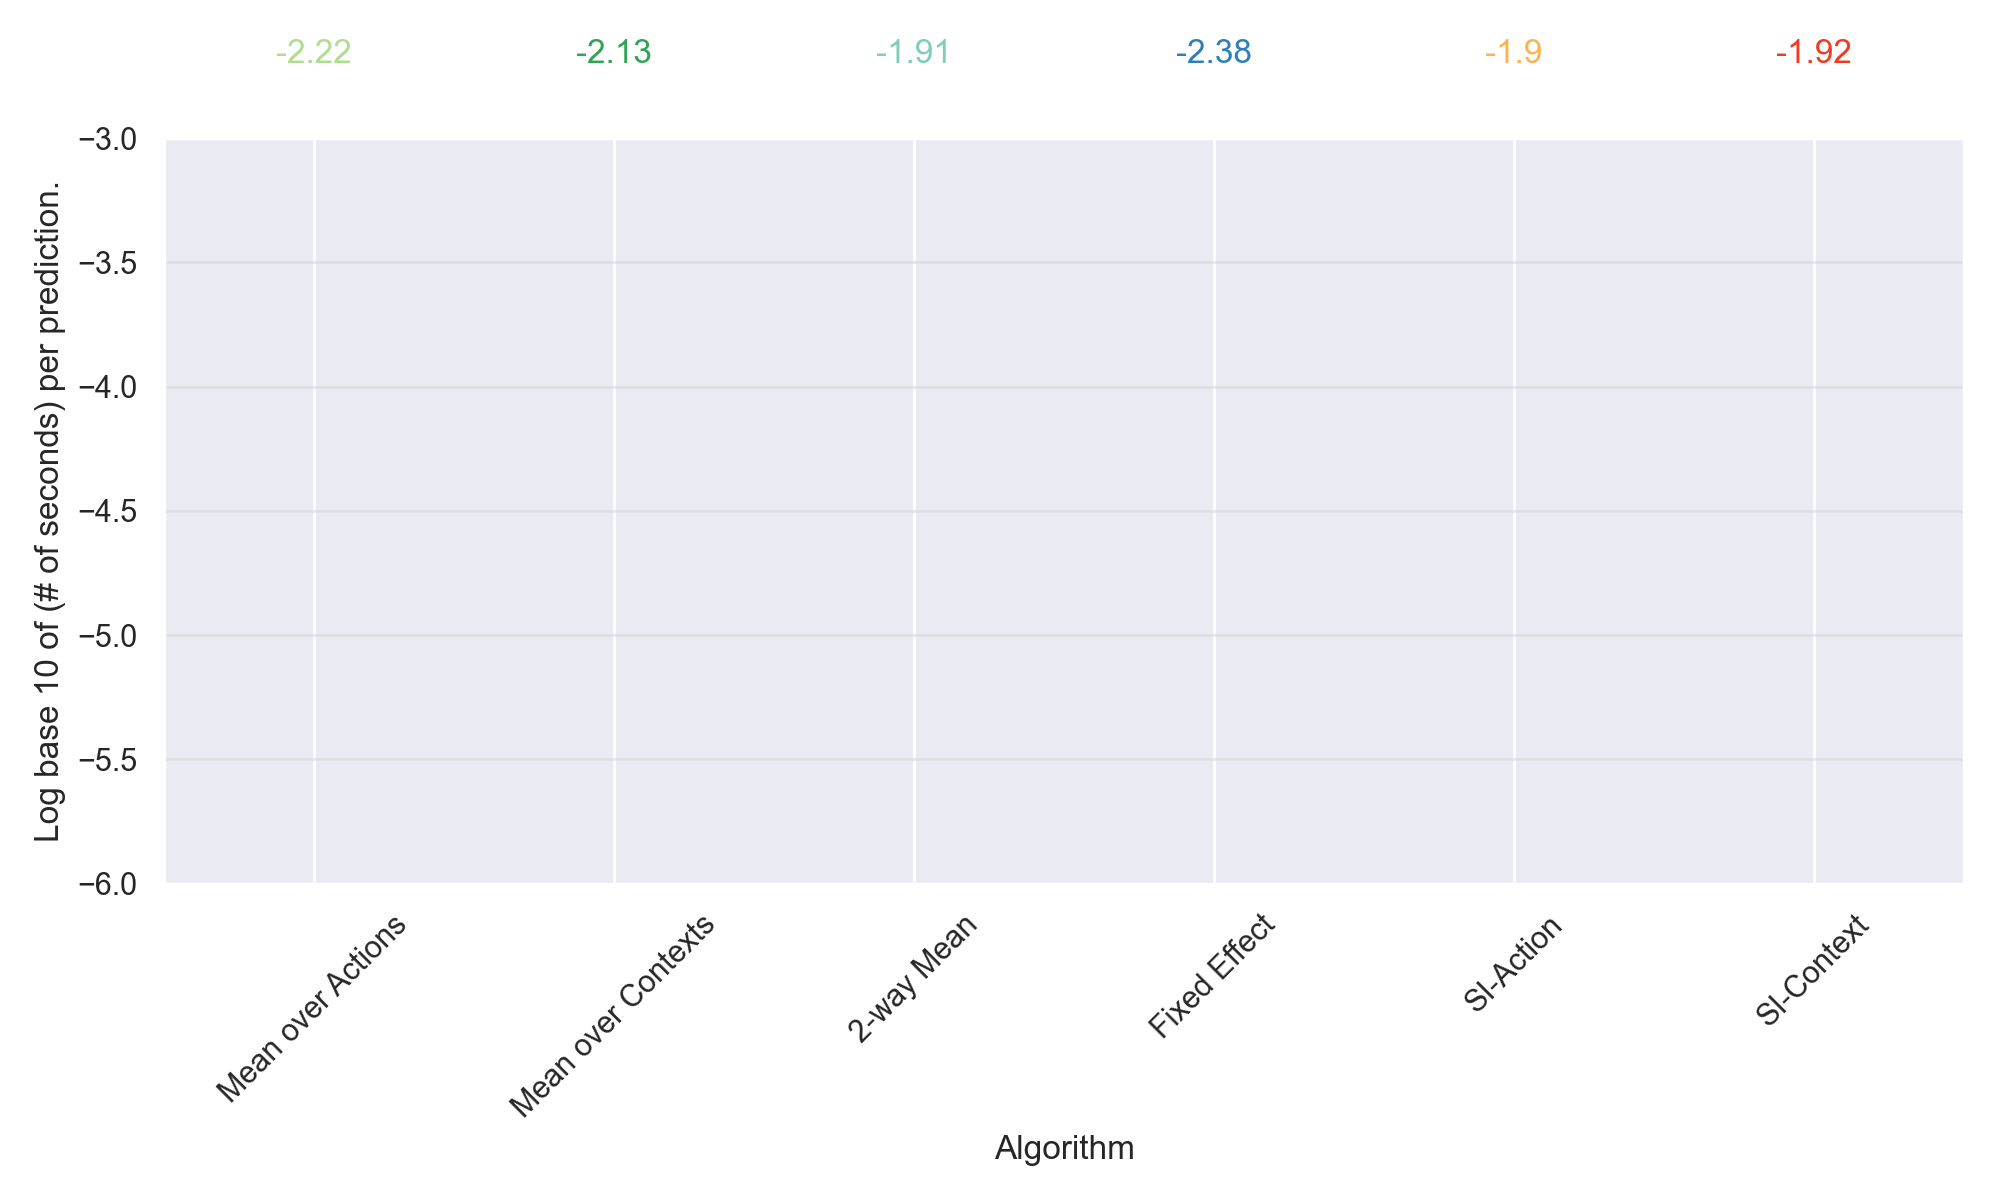
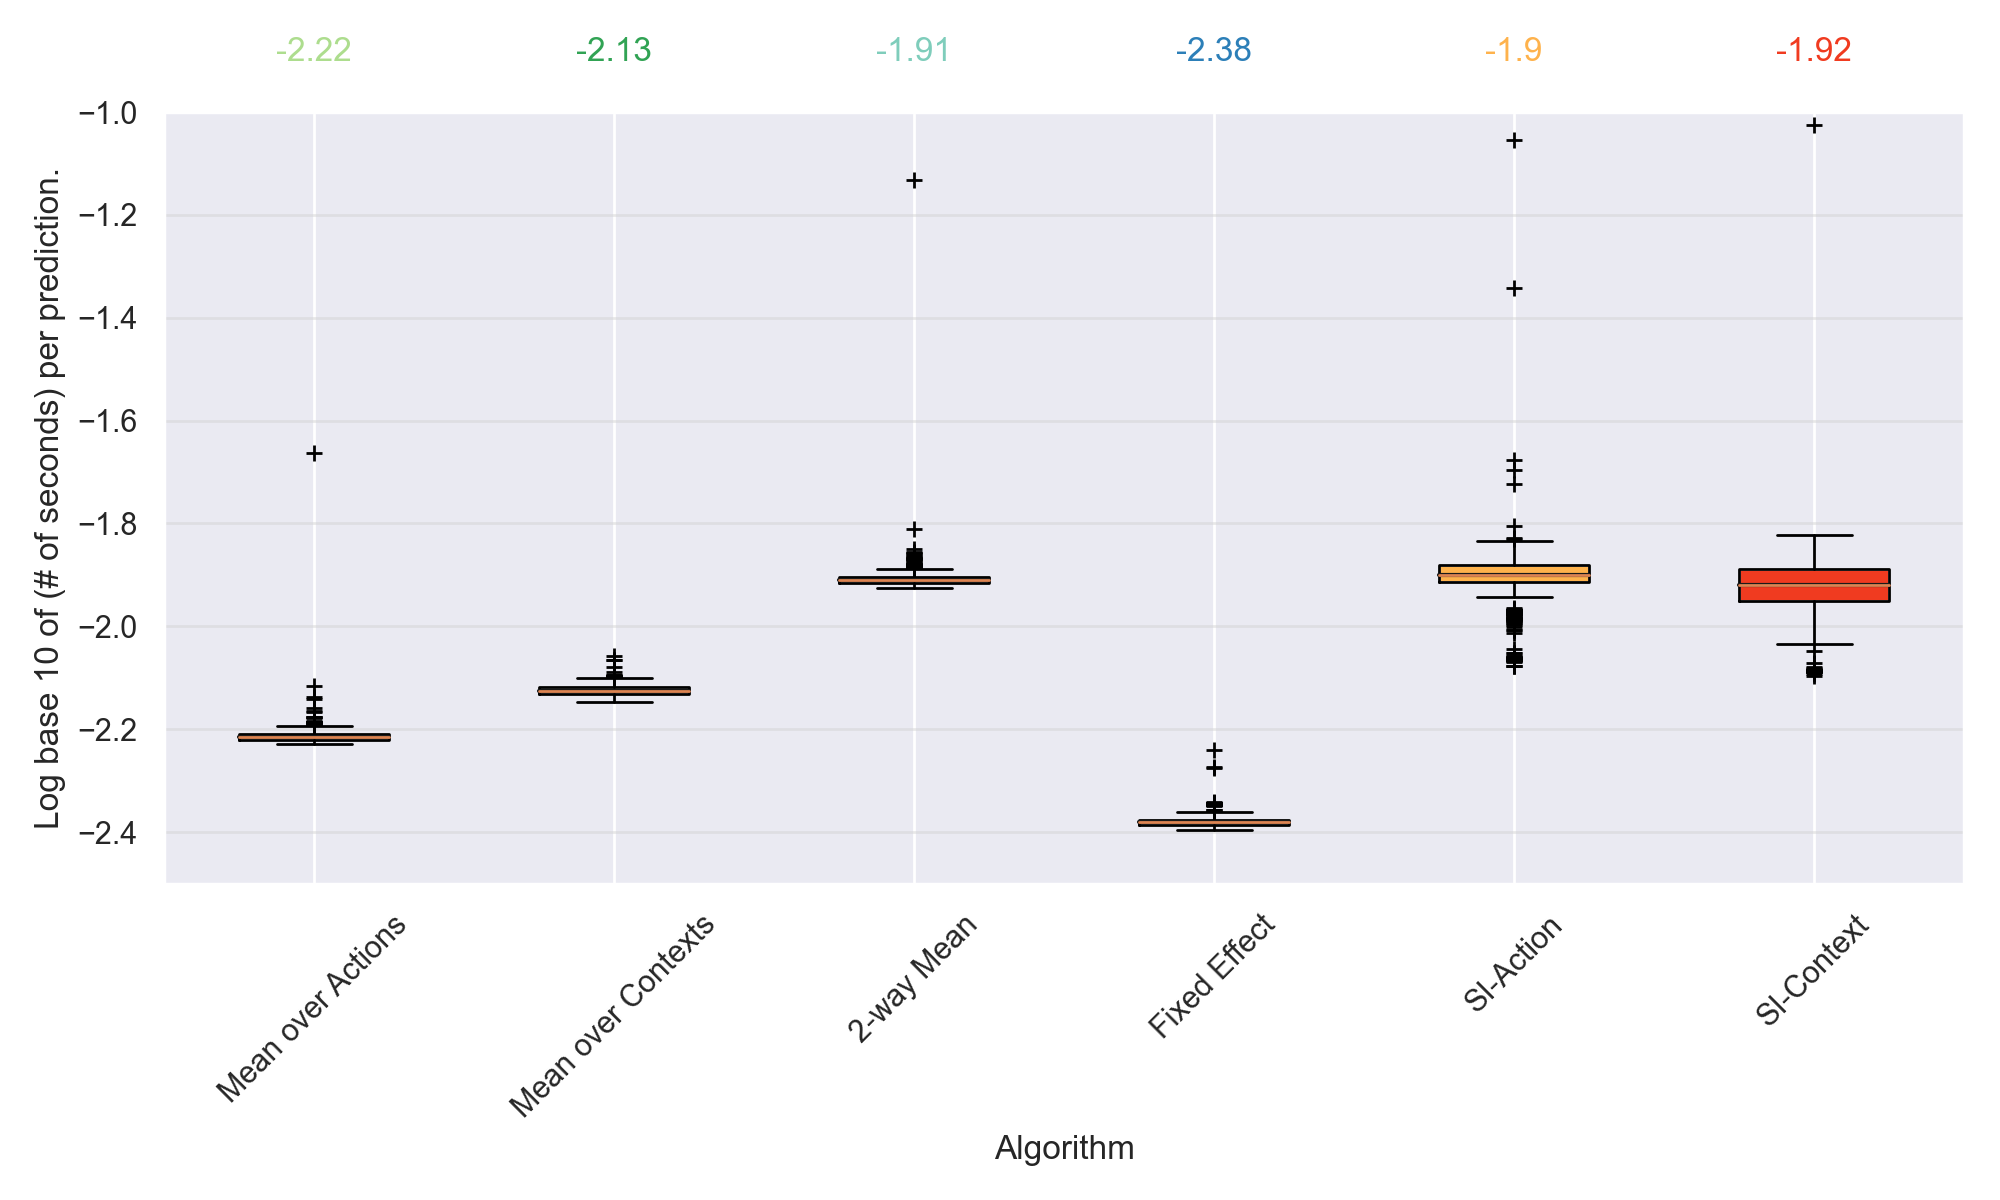
do 10,000

diff --git a/src/algorithms/synthetic_interventions2.py b/src/algorithms/synthetic_interventions2.py
@@ -112,7 +112,7 @@ class SyntheticInterventions:
             vals = block.values.reshape(-1, len(contexts)*df.shape[1]).T
         return vals
 
-    def predict(self, targets, progress=False, statistics=True):
+    def predict(self, targets, progress=False, statistics=False):
         targets = targets.reorder_levels([self.context_dim, self.regression_dim])
         iterator = enumerate(targets) if not progress else enumerate(tqdm(targets))
 
@@ -165,7 +165,7 @@ def predict_synthetic_intervention_ols(
     context_dim = list({"intervention", "unit"} - {donor_dim})[0]
     si = SyntheticInterventions(regressor, regression_dim=donor_dim, context_dim=context_dim, num_donors=num_desired_donors)
     si.fit(df)
-    predicted_df, stats_df = si.predict(targets, progress=progress, statistics=True)
+    predicted_df, stats_df = si.predict(targets, progress=progress, statistics=False)
     predicted_df = predicted_df.reorder_levels(["unit", "intervention"])
     stats_df = stats_df.reorder_levels(["unit", "intervention"])
     return predicted_df, stats_df

diff --git a/src/algorithms/hsvt_regressor2.py b/src/algorithms/hsvt_regressor2.py
@@ -198,11 +198,11 @@ class HSVTRegressor2:
         proj_stat = projection_stat(vmat_train_trunc, vmat_test) / vmat_test.shape[0]
         proj_stat_trunc = projection_stat(vmat_train_trunc, vmat_test_trunc) / vmat_test_trunc.shape[0]
         # print(spectra2energy_percent(self.spectra_train))
-        print(proj_stat, proj_stat_trunc)
+        # print(proj_stat, proj_stat_trunc)
         rank_train = len(spectra_train_trunc)
         rank_test = len(spectra_test_trunc)
         align = get_spectral_alignment(self.get_train_svd(train_x), (umat_test, spectra_test, vmat_test))
-        print(np.mean(align))
+        # print(np.mean(align))
         return np.mean(align), rank_train, rank_test
         # ipdb.set_trace()
 

diff --git a/evaluation/main.py b/evaluation/main.py
@@ -49,7 +49,7 @@ if __name__ == '__main__':
     parser = argparse.ArgumentParser()
     parser.add_argument("--name", action="store", dest="name", default="level2", type=str)
     parser.add_argument("--average", action="store", default=True, type=bool)
-    parser.add_argument("--num_perts", action="store", default=100, type=int)
+    parser.add_argument("--num_perts", action="store", default=10000, type=int)
     parser.add_argument("--num_cells", action="store", default=None, type=int)
     args = parser.parse_args()
 

diff --git a/evaluation/helpers/evaluation_manager.py b/evaluation/helpers/evaluation_manager.py
@@ -263,8 +263,8 @@ class EvaluationManager:
             xlabel='Algorithm',
             ylabel='Log base 10 of (# of seconds) per prediction.',
             title=self.prediction_manager.result_string,
-            top=-3,
-            bottom=-6,
+            top=-1,
+            bottom=-2.5,
         )
         plt.title("")
         self.savefig(f'time_boxplot')
